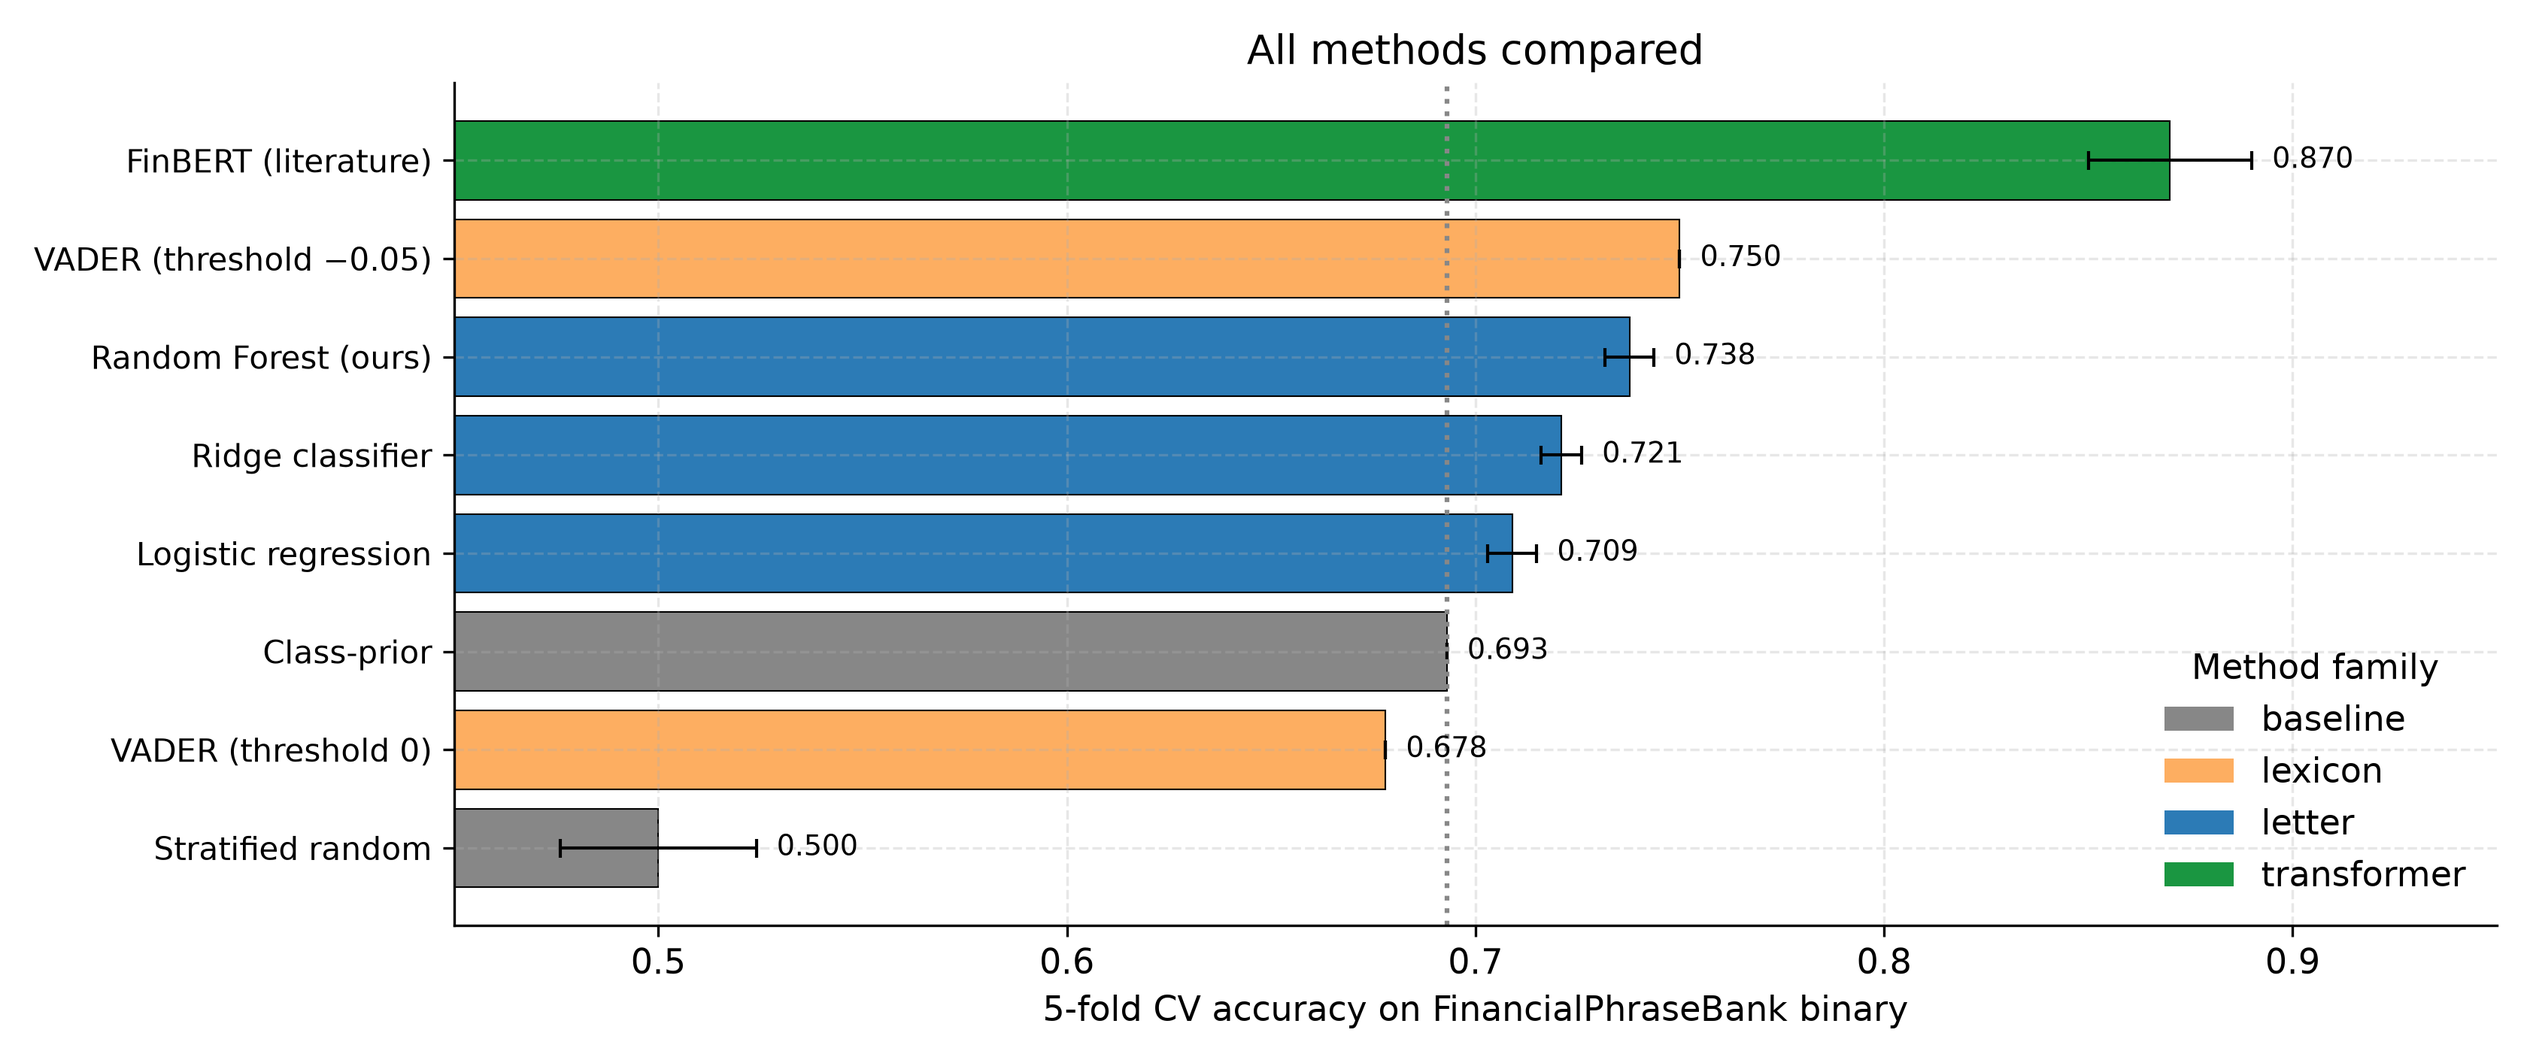
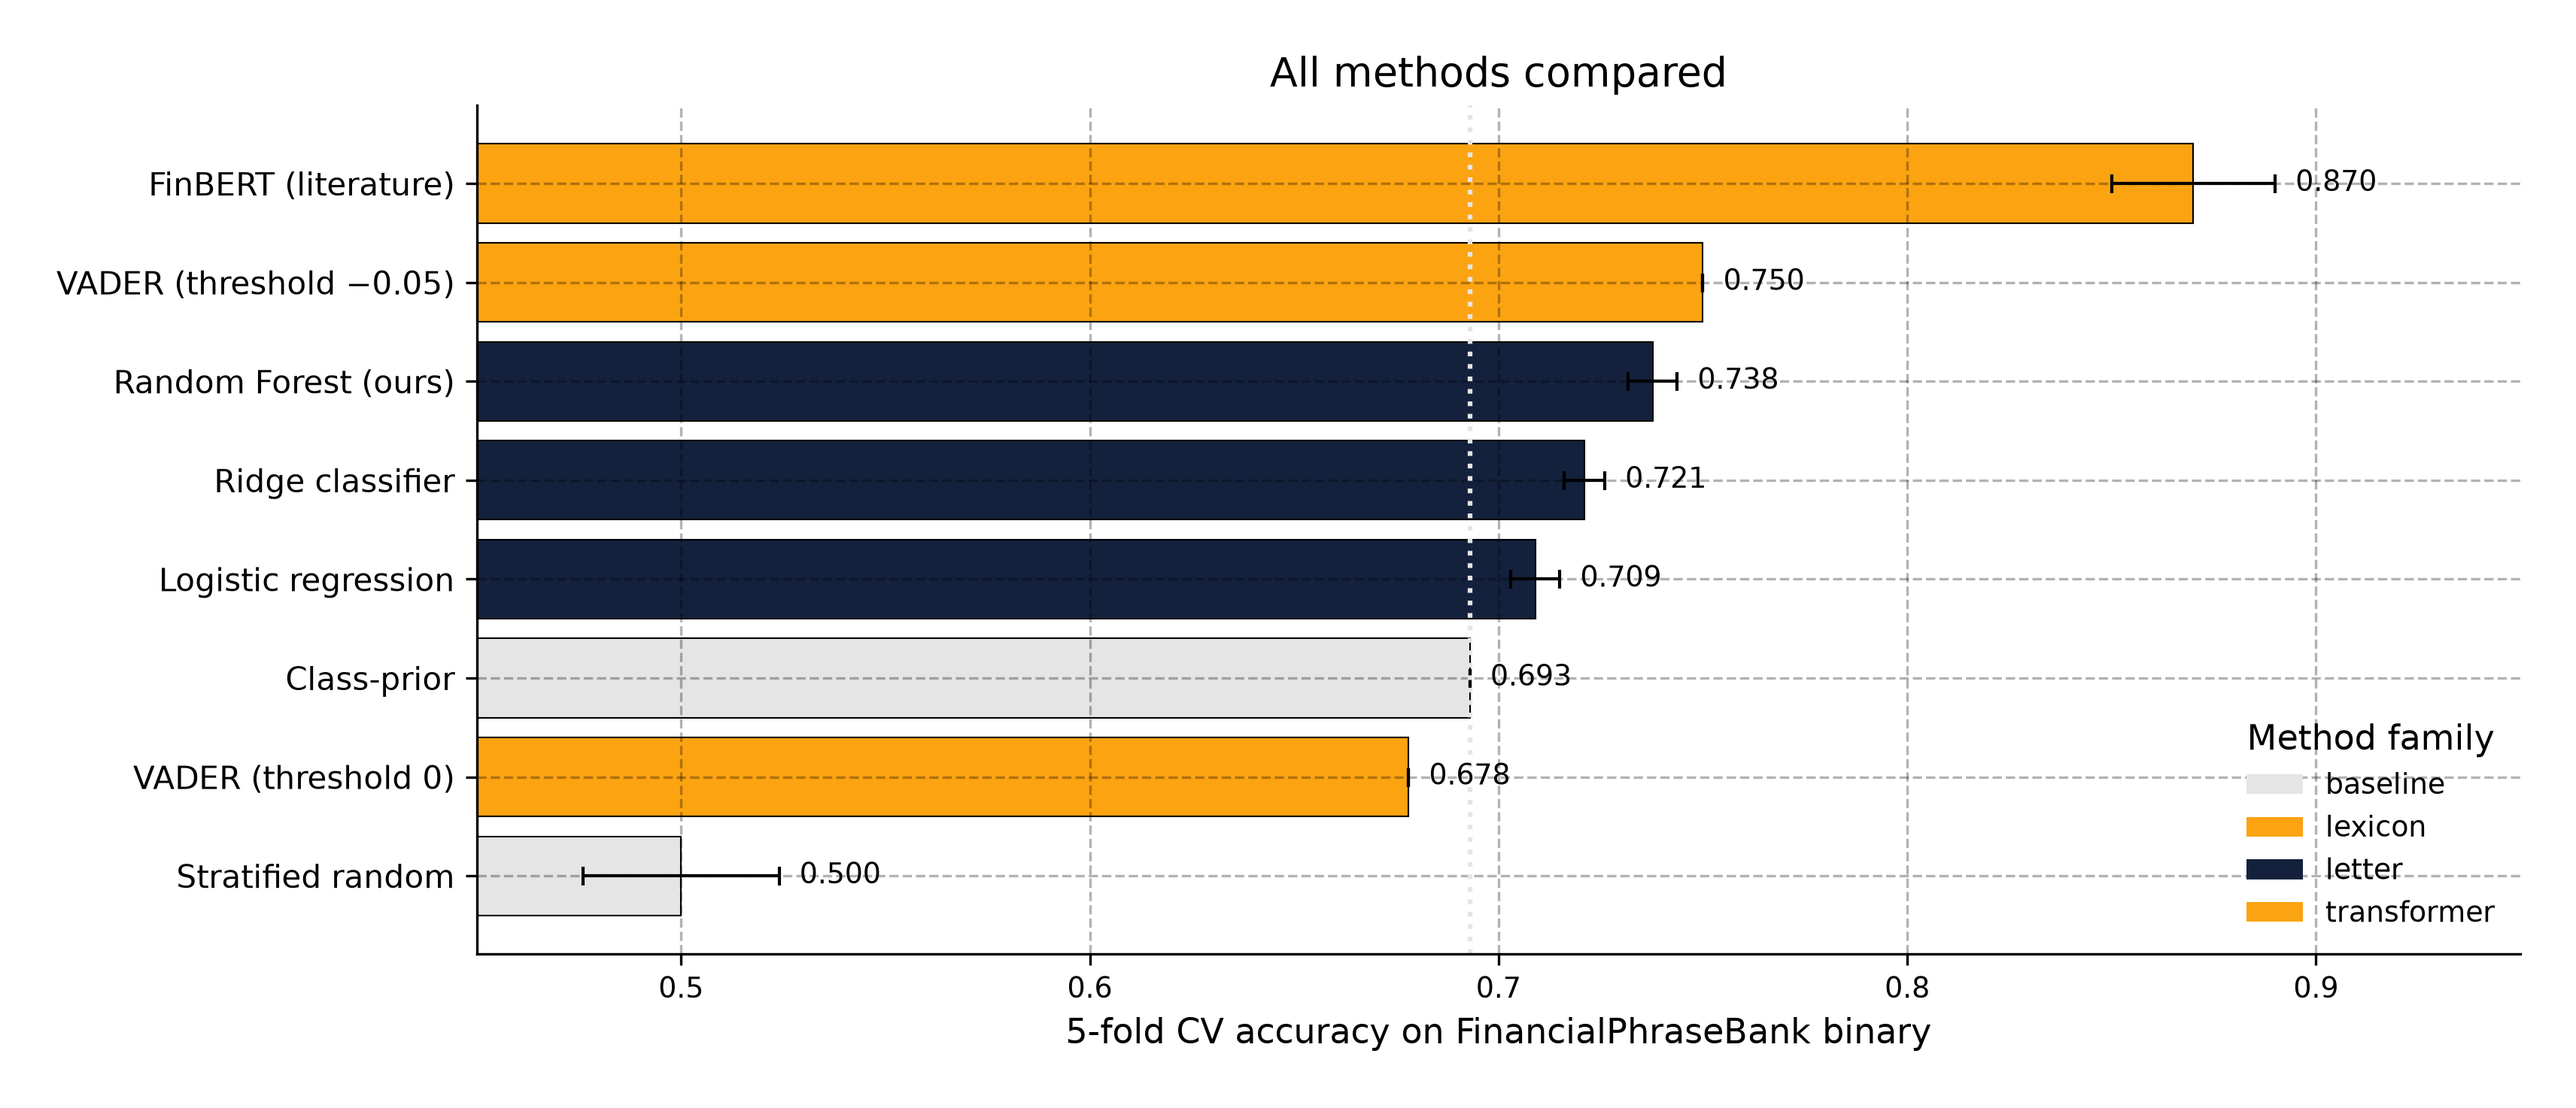
style: unified palette (prussian/orange/alabaster/black/white), fix headline figure spacing
- New src/style.py: shared palette + rcParams for visual consistency
- figures.py + visualise.py: use src/style, drop scattered hex codes
- headline_summary: wider figure, lower suptitle, rotated x-labels, framed legend
  to fix the title/label collision and legend clipping
- All 13 figures re-rendered with the new palette
- TEMPLATE.md: new 'Pre-render checklist' section — ask for palette,
  open the PNG and look, check headline first, single style.py source of truth
- visualise.py: switch to tight_layout (constrained_layout breaks colorbars)

diff --git a/src/figures.py b/src/figures.py
@@ -17,82 +17,128 @@ import matplotlib.pyplot as plt
 import numpy as np
 import pandas as pd
 
-# Style
-plt.rcParams.update({
-    "figure.dpi": 100,
-    "savefig.dpi": 300,
-    "font.family": "DejaVu Sans",
-    "font.size": 11,
-    "axes.titlesize": 13,
-    "axes.labelsize": 11,
-    "axes.spines.top": False,
-    "axes.spines.right": False,
-    "axes.grid": True,
-    "grid.alpha": 0.3,
-    "grid.linestyle": "--",
-    "figure.constrained_layout.use": True,
-    "savefig.bbox": "tight",
-    "savefig.pad_inches": 0.15,
-    "legend.frameon": False,
-})
+# Project-wide style. Importing the module also applies the rcParams.
+from src.style import apply_style, PALETTE, SEMANTIC
+
+apply_style()
 
 REPO_ROOT = Path(__file__).resolve().parent.parent
 RESULTS_DIR = REPO_ROOT / "results"
 FIGURES_DIR = REPO_ROOT / "figures"
 FIGURES_DIR.mkdir(parents=True, exist_ok=True)
 
-# Project colour palette — ColorBrewer-inspired, printer-friendly
+# Project colour palette. Backed by src.style.PALETTE; kept here as a local
+# alias so existing call sites (e.g. COLORS["primary"]) keep working.
 COLORS = {
-    "primary":   "#2c7bb6",   # blue
-    "secondary": "#d7191c",   # red
-    "accent":    "#fdae61",   # orange
-    "neutral":   "#5e3c99",   # purple
-    "highlight": "#1a9641",   # green
-    "grey":      "#878787",
+    "primary":   SEMANTIC["primary"],
+    "secondary": SEMANTIC["primary"],
+    "accent":    SEMANTIC["secondary"],
+    "neutral":   SEMANTIC["primary"],
+    "highlight": SEMANTIC["secondary"],
+    "grey":      SEMANTIC["muted"],
 }
 
 
 # ---- 1. Headline summary figure ----
 def plot_headline_summary(out_path: Path) -> None:
-    """One-glance figure: CV accuracy vs class-prior baseline + null distribution."""
+    """One-glance figure: CV accuracy vs class-prior baseline + null distribution.
+
+    Layout notes:
+      - The suptitle is the *project title* and sits well above the subplot
+        titles. We use a wider figure and lower the suptitle y so the two
+        text elements do not collide.
+      - The right subplot's legend is anchored to the upper-left corner
+        (away from the dashed "Observed" line) and uses a frame so the
+        long labels stay readable.
+      - The left subplot's x-tick labels are rotated 15 degrees so that
+        "Random Forest (letter features, ours)" does not run into the
+        bar above it.
+    """
     cv = pd.read_csv(RESULTS_DIR / "cv_random_forest.csv").iloc[0]
     perm = pd.read_json(RESULTS_DIR / "permutation_test.json", typ="series")
-    major = (perm["null_max"] if "null_max" in perm else 0.690)
     null_mean = perm.get("null_mean", 0.684)
     null_std = perm.get("null_std", 0.004)
     pval = perm.get("p_value", 0.0)
 
-    fig, axes = plt.subplots(1, 2, figsize=(11, 4.2), gridspec_kw={"width_ratios": [1.4, 1]})
+    # Wider figure + more height so suptitle does not crowd subplot titles.
+    fig, axes = plt.subplots(
+        1, 2,
+        figsize=(13, 5.2),
+        gridspec_kw={"width_ratios": [1.4, 1]},
+    )
 
-    # Left: bar chart of baselines vs model
-    methods = ["Class-prior\n(always positive)", "Stratified\nrandom", "Logistic\nregression", "Ridge\nclassifier", "Random Forest\n(letter features, ours)"]
+    # ---- Left: bar chart of baselines vs model ----
+    methods = [
+        "Class-prior\n(always positive)",
+        "Stratified\nrandom",
+        "Logistic\nregression",
+        "Ridge\nclassifier",
+        "Random Forest\n(letter features,\nours)",
+    ]
     accs = [0.693, 0.500, 0.709, 0.721, cv["accuracy_mean"]]
-    errs = [0.000, 0.024, cv_log := 0.006, 0.005, cv["accuracy_std"]]
-    colors = [COLORS["grey"], COLORS["grey"], COLORS["accent"], COLORS["accent"], COLORS["primary"]]
-    bars = axes[0].bar(range(len(methods)), accs, yerr=errs, color=colors, capsize=4, edgecolor="black", linewidth=0.5)
-    axes[0].axhline(0.693, color=COLORS["grey"], linestyle=":", alpha=0.5, label="class-prior baseline (0.693)")
+    errs = [0.000, 0.024, 0.006, 0.005, cv["accuracy_std"]]
+    colors = [
+        COLORS["grey"], COLORS["grey"],
+        COLORS["accent"], COLORS["accent"],
+        COLORS["primary"],
+    ]
+    bars = axes[0].bar(
+        range(len(methods)), accs, yerr=errs,
+        color=colors, capsize=4,
+        edgecolor="black", linewidth=0.5,
+    )
+    axes[0].axhline(
+        0.693, color=COLORS["grey"], linestyle=":",
+        alpha=0.6, label="class-prior baseline (0.693)",
+    )
     axes[0].set_xticks(range(len(methods)))
-    axes[0].set_xticklabels(methods, rotation=0, fontsize=9)
+    axes[0].set_xticklabels(methods, rotation=15, ha="right", fontsize=8.5)
     axes[0].set_ylabel("5-fold CV accuracy")
     axes[0].set_ylim(0.40, 0.80)
-    axes[0].set_title("Letter-feature classifier vs baselines")
+    axes[0].set_title("Letter-feature classifier vs baselines", pad=8)
     for bar, acc, err in zip(bars, accs, errs):
-        axes[0].text(bar.get_x() + bar.get_width() / 2, acc + err + 0.01,
-                     f"{acc:.3f}", ha="center", va="bottom", fontsize=8.5)
+        axes[0].text(
+            bar.get_x() + bar.get_width() / 2,
+            acc + err + 0.01,
+            f"{acc:.3f}",
+            ha="center", va="bottom", fontsize=8.5,
+        )
 
-    # Right: null distribution vs observed
+    # ---- Right: null distribution vs observed ----
     null = np.array(perm.get("null_distribution", [0.683, 0.685, 0.686]))
-    axes[1].hist(null, bins=10, color=COLORS["grey"], alpha=0.7, label="Permutation null (n=50)")
-    axes[1].axvline(cv["accuracy_mean"], color=COLORS["primary"], linestyle="--", linewidth=2.5,
-                    label=f"Observed ({cv['accuracy_mean']:.3f})")
-    axes[1].axvline(0.693, color=COLORS["secondary"], linestyle=":", linewidth=2, label="Class-prior (0.693)")
+    axes[1].hist(
+        null, bins=10,
+        color=COLORS["grey"], alpha=0.8,
+        label="Permutation null (n=50)",
+        edgecolor="black", linewidth=0.5,
+    )
+    axes[1].axvline(
+        cv["accuracy_mean"], color=COLORS["primary"],
+        linestyle="--", linewidth=2.5,
+        label=f"Observed ({cv['accuracy_mean']:.3f})",
+    )
+    axes[1].axvline(
+        0.693, color=COLORS["secondary"],
+        linestyle=":", linewidth=2,
+        label="Class-prior (0.693)",
+    )
     axes[1].set_xlabel("5-fold CV accuracy")
     axes[1].set_ylabel("Frequency (permutations)")
-    axes[1].set_title(f"Permutation test (p = {pval:.4f})")
-    axes[1].legend(loc="upper left", fontsize=9)
+    axes[1].set_title(f"Permutation test (p = {pval:.4f})", pad=8)
+    # Anchored legend inside the axes — top-left, where the data does not
+    # crowd it. Use a faint frame so long labels stay readable.
+    legend = axes[1].legend(
+        loc="upper left", fontsize=8.5,
+        frameon=True, framealpha=0.9,
+    )
+    legend.get_frame().set_edgecolor(COLORS["grey"])
 
-    fig.suptitle("Letter-derived features for sentiment classification (FinancialPhraseBank binary, n=1967)",
-                 fontsize=14, y=1.02)
+    # Suptitle — well above the subplot titles so the two never collide.
+    fig.suptitle(
+        "Letter-derived features for sentiment classification "
+        "(FinancialPhraseBank binary, n=1967)",
+        fontsize=14, y=1.04,
+    )
     fig.savefig(out_path, dpi=300)
     plt.close(fig)
     print(f"  Wrote {out_path.name}")

diff --git a/src/style.py b/src/style.py
@@ -1,0 +1,90 @@
+"""
+Shared matplotlib style and colour palette for the letter-valence project.
+
+Palette (used everywhere for visual consistency):
+
+  black         #000000   primary text, axes, borders
+  prussian_blue #14213d   background elements, line emphasis
+  orange        #fca311   highlight bars / lines
+  alabaster     #e5e5e5   neutral fills, light bars
+  white         #ffffff   background, text on dark
+
+Usage:
+
+    from src.style import apply_style, PALETTE
+    apply_style()
+    fig, ax = plt.subplots()
+    ax.bar(..., color=PALETTE["orange"])
+"""
+from __future__ import annotations
+
+import matplotlib.pyplot as plt
+
+# Project palette — the only place these hex codes are defined.
+PALETTE = {
+    "black":        "#000000",
+    "prussian":     "#14213d",
+    "orange":       "#fca311",
+    "alabaster":    "#e5e5e5",
+    "white":        "#ffffff",
+}
+
+# Convenience semantic aliases. These map chart roles to palette entries
+# so a figure can ask for "primary", "muted", etc. and we can change the
+# mapping in one place.
+SEMANTIC = {
+    "primary":    PALETTE["prussian"],   # strongest emphasis
+    "secondary":  PALETTE["orange"],     # secondary emphasis
+    "muted":      PALETTE["alabaster"],  # neutral / background
+    "text":       PALETTE["black"],      # labels, axes
+    "highlight":  PALETTE["orange"],     # call-out values
+    "negative":   PALETTE["prussian"],   # for "below baseline"
+    "positive":   PALETTE["orange"],     # for "above baseline"
+}
+
+
+def apply_style() -> None:
+    """Apply the project-wide matplotlib rcParams.
+
+    Idempotent — call at the top of any figure script.
+    """
+    plt.rcParams.update({
+        # Resolution
+        "figure.dpi": 100,
+        "savefig.dpi": 300,
+        # Fonts
+        "font.family": "DejaVu Sans",
+        "font.size": 11,
+        "axes.titlesize": 13,
+        "axes.labelsize": 11,
+        "xtick.labelsize": 9,
+        "ytick.labelsize": 9,
+        "legend.fontsize": 9,
+        "figure.titlesize": 14,
+        # Frame
+        "axes.spines.top": False,
+        "axes.spines.right": False,
+        "axes.edgecolor": PALETTE["black"],
+        "axes.linewidth": 0.8,
+        # Text colour
+        "text.color": PALETTE["black"],
+        "axes.labelcolor": PALETTE["black"],
+        "xtick.color": PALETTE["black"],
+        "ytick.color": PALETTE["black"],
+        # Grid
+        "axes.grid": True,
+        "grid.alpha": 0.3,
+        "grid.linestyle": "--",
+        "grid.color": PALETTE["black"],
+        # Layout
+        "figure.constrained_layout.use": True,
+        "savefig.bbox": "tight",
+        "savefig.pad_inches": 0.25,
+        # Legend
+        "legend.frameon": False,
+        "legend.edgecolor": PALETTE["black"],
+    })
+
+
+# Auto-apply on import so `import src.style` is enough.
+apply_style()

diff --git a/src/visualise.py b/src/visualise.py
@@ -24,6 +24,20 @@ sys.path.insert(0, str(REPO))
 
 from src.data import load_articles_binary
 from src.features import features as feature_one_word, get_feature_names
+from src.style import apply_style, PALETTE, SEMANTIC
+
+apply_style()
+
+# Local palette aliases for use in plots.
+PALETTE_PRIMARY   = SEMANTIC['primary']
+PALETTE_HIGHLIGHT = SEMANTIC['highlight']
+PALETTE_MUTED     = SEMANTIC['muted']
+PALETTE_TEXT      = SEMANTIC['text']
+
+# visualise.py has colorbars in some figures, which do not work with
+# constrained_layout (matplotlib raises a RuntimeError on save). Switch
+# to the classic layout engine so fig.tight_layout() calls below work.
+plt.rcParams["figure.constrained_layout.use"] = False
 
 OUT_DIR = REPO / "figures"
 OUT_DIR.mkdir(exist_ok=True)

diff --git a/TEMPLATE.md b/TEMPLATE.md
@@ -162,6 +162,49 @@ A research project of moderate scope should produce 8 figures. Each has a known 
 - Black border on bars (linewidth 0.5)
 - Value labels next to each bar
 
+### Pre-render checklist (mandatory)
+
+Run through this before generating any figure. **Skipping these checks has
+caused wasted work on every project so far — the figure renders fine in the
+script, but on the page it is unreadable, and the only way to find out is to
+actually look at the saved PNG.**
+
+1. **Ask the user for the colour palette before designing any figure.**
+   Do not pick one. Do not default to ColorBrewer. Do not pick a palette
+   "based on what feels right". The project has either an explicit palette
+   in the README, in a `style.py` module, or in a design doc — read it,
+   then confirm with the user. A figure that uses the wrong palette is
+   worse than a figure with no colour at all, because it has to be
+   re-rendered.
+2. **After the first render, open the PNG and look at it.** Specifically:
+   - Title and subplot titles — do they collide?
+   - Long axis tick labels — do letters run into each other?
+   - Legend — is it inside the data area, or does it get clipped?
+   - Numbers in labels (e.g. "(0.738)") — do they get cut off at the
+     edge of the box?
+3. **Run a visual check on the `headline_summary.png` first.** This is the
+   figure that goes in the README and is most often shared on social
+   media. If the headline figure has spacing issues, every other figure
+   probably does too. Fix the headline, then re-render the rest.
+4. **Keep a single `src/style.py` module** with the palette and rcParams.
+   Every figure-generation script imports from it. This way a palette
+   change re-renders all figures in one pass, not one at a time.
+5. **If you change the palette, re-render every figure, then re-check
+   the headline.** Don't trust that because the source code changed the
+   PNG will be fine. Open it.
+
+**Common spacing fixes (if the above checks fail):**
+- Title collision → wider figure (`figsize=(13, 5.2)` instead of `(11, 4.2)`),
+  lower the suptitle (`y=1.04`), and add `pad=8` to `ax.set_title()`.
+- Long axis labels running into each other → `rotation=15, ha="right"`
+  on the x-tick labels, with `fontsize=8.5`.
+- Legend clipping → add a faint frame (`frameon=True, framealpha=0.9`)
+  and move the legend to a corner where the data does not crowd it.
+- Colorbar layout errors → `constrained_layout` does not work with
+  colorbars in older matplotlib; switch to `plt.tight_layout()` and
+  `plt.rcParams["figure.constrained_layout.use"] = False` for those
+  scripts.
+
 ---
 
 ## 7. The reproduction contract
